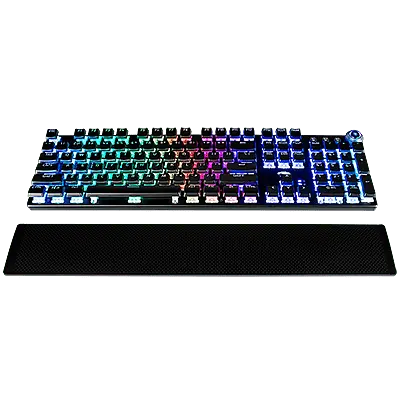
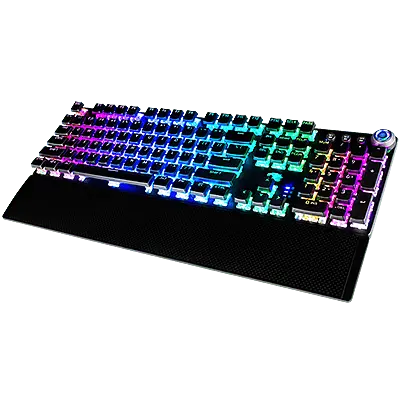
Replace duplicate product image

Changed region(s): [[0.0, 0.24, 1.0, 0.78]]

diff --git a/README.md b/README.md
@@ -30,9 +30,9 @@ The main challenge for this project was incorporating the Bootstrap CSS framewor
 
 ### Acknowledgements
 
-[www.ibuypower.com](www.ibuypower.com) <br>
-[www.msi.com](www.msi.com) <br>
-[www.gigabyte.com](www.gigabyte.com) <br>
+[https://www.ibuypower.com/](https://www.ibuypower.com/) <br>
+[https://www.msi.com/](https://www.msi.com/) <br>
+[https://www.gigabyte.com](https://www.gigabyte.com) <br>
 
 ### License
 
